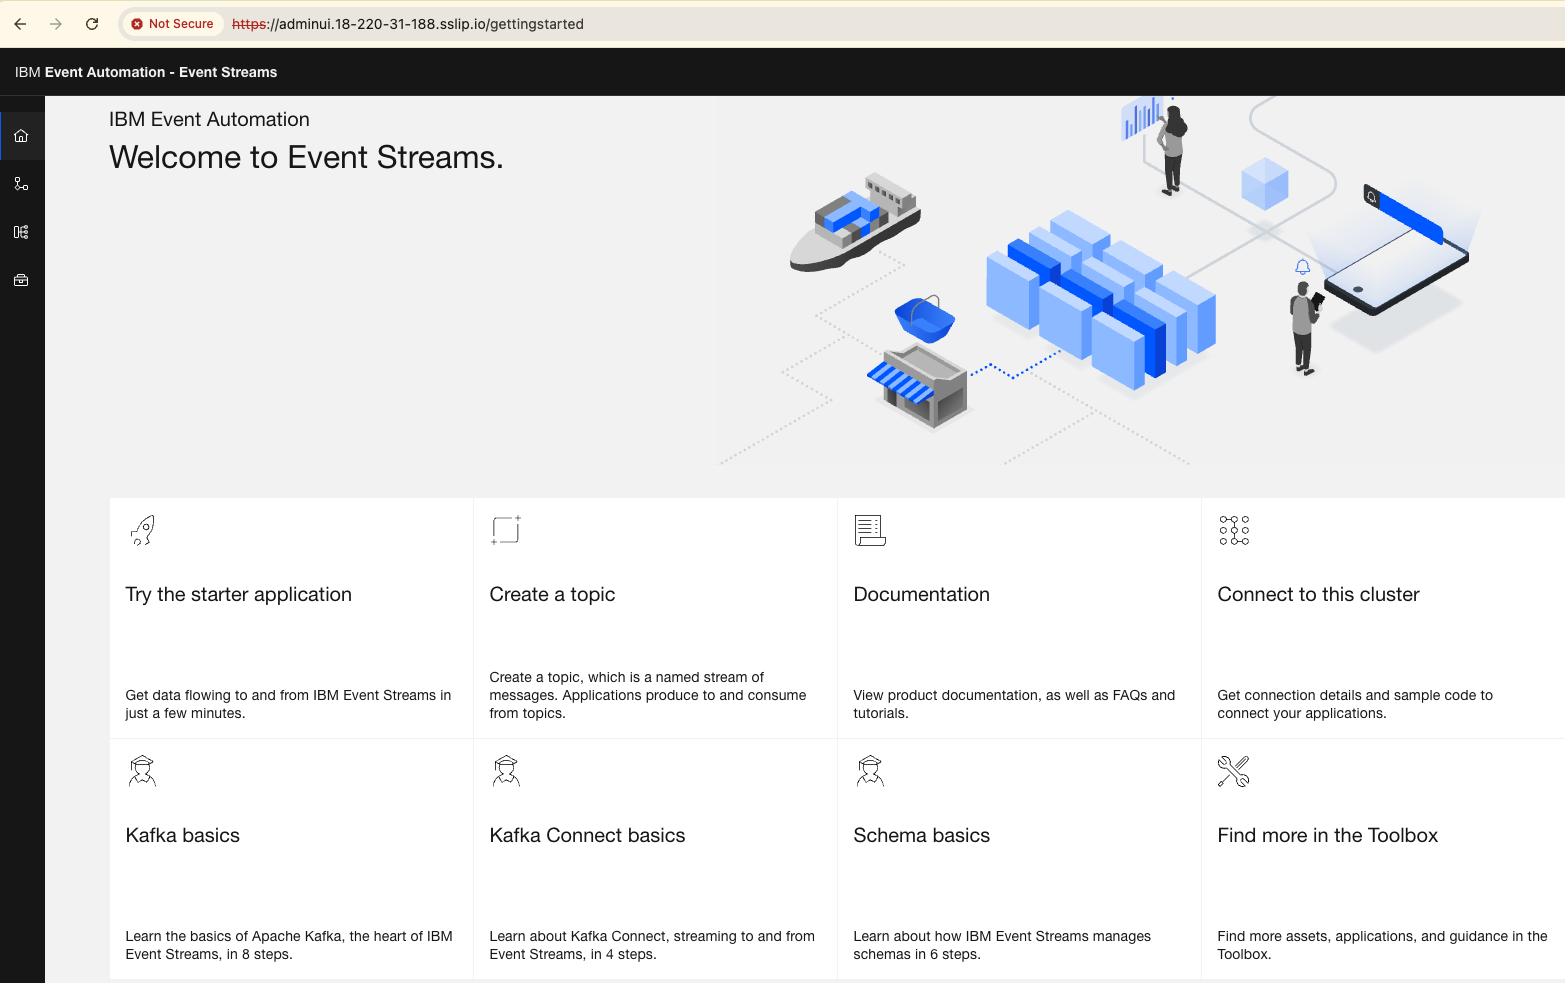
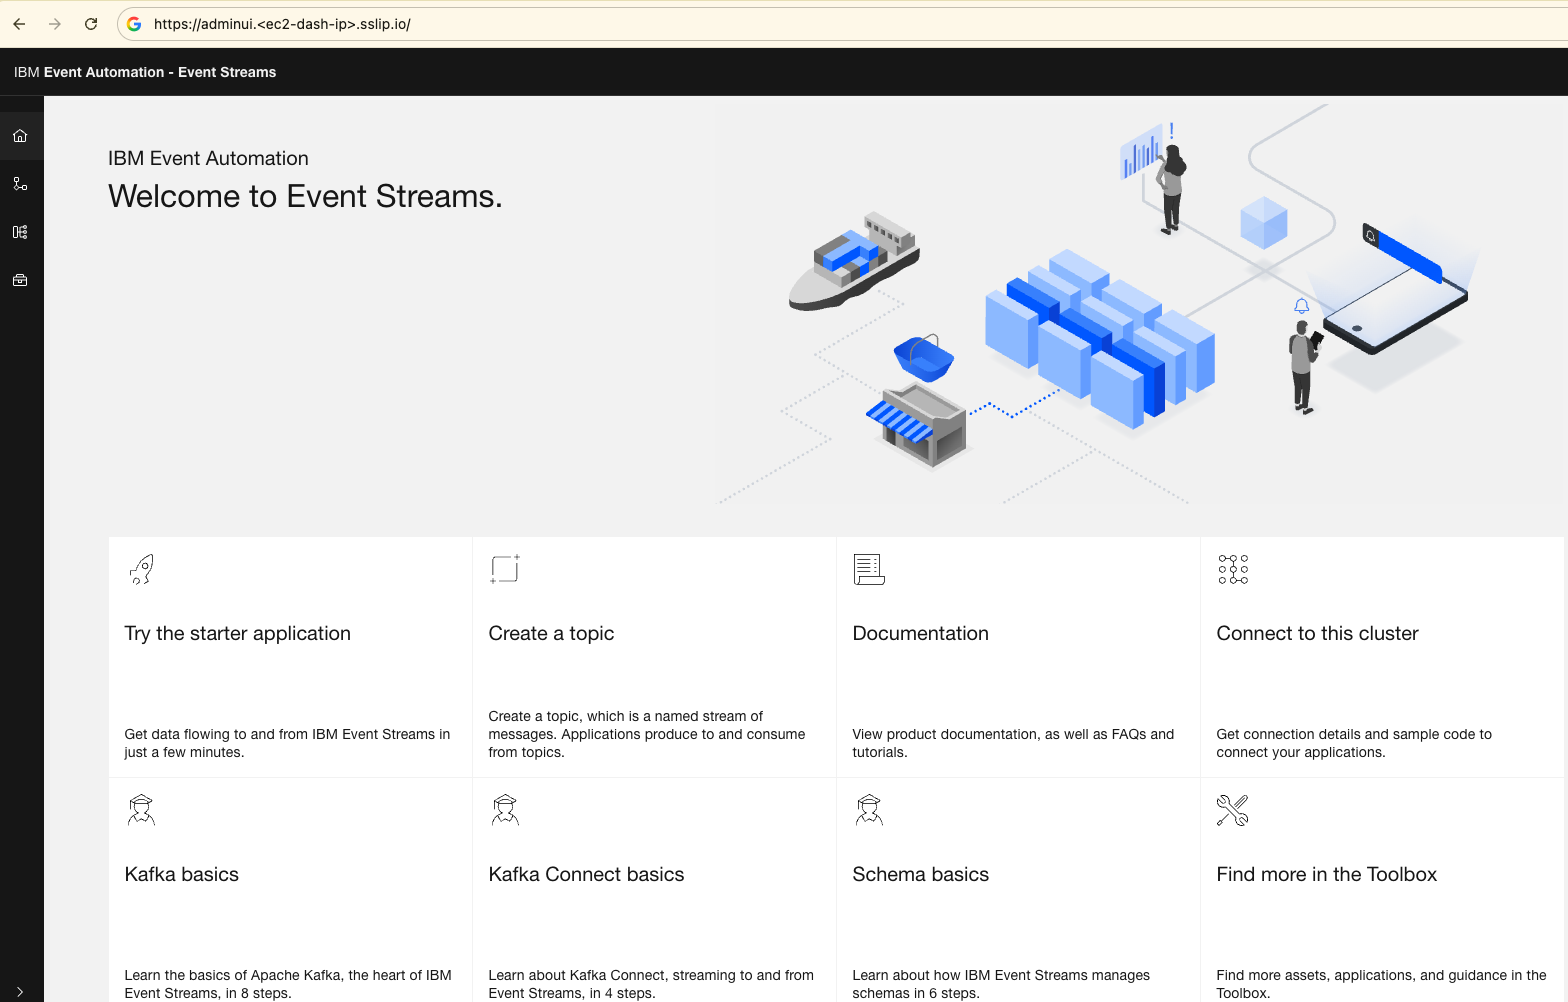
ibm eventstreams deployment on k8s

diff --git a/eventstreams/README.md b/eventstreams/README.md
@@ -217,7 +217,7 @@ Because this deployment runs on kind inside a remote EC2 instance, you must:
 2. Configure **host ports** so EC2 can route HTTP/HTTPS traffic into the Docker containers.
 3. Pin the ingress controller to the **control-plane** node.
 
-Replace `<EC2_PUBLIC_IP>` with your instance's public IP (e.g. `18.220.31.188`).
+Replace `<EC2_PUBLIC_IP>` with your instance's public IP (e.g. `99.999.99.999`).
 
 ```bash
 helm repo add ingress-nginx https://kubernetes.github.io/ingress-nginx
@@ -301,7 +301,7 @@ Edit `minimal-prod.yaml` before applying:
 
 1. Set `spec.license.accept` to `true`.
 2. Replace `<HOSTNAME>` placeholders with sslip.io hostnames based on your EC2 public IP.
-   - Example: for IP `18.220.31.188`, use `adminui.18-220-31-188.sslip.io`.
+   - Example: for IP `99.999.99.999`, use `adminui.<99-999-99-999>.sslip.io`.
 3. Set `class: nginx` for all ingress endpoints.
 4. Set `class: standard` for storage.
 
@@ -315,16 +315,16 @@ sdiff -s minimal-prod.yaml.orig minimal-prod.yaml
 
 ```
     accept: false                                    |      accept: true
-        host: <HOSTNAME>                             |          host: adminapi.18-220-31-188.sslip.io
+        host: <HOSTNAME>                             |          host: adminapi.<ip-with-dashes>.sslip.io
         class: <INGRESS-CLASS>                       |          class: nginx
-        host: <HOSTNAME>                             |          host: adminui.18-220-31-188.sslip.io
+        host: <HOSTNAME>                             |          host: adminui.<ip-with-dashes>.sslip.io
         class: <INGRESS-CLASS>                       |          class: nginx
-        host: <HOSTNAME>                             |          host: apicurio.18-220-31-188.sslip.io
+        host: <HOSTNAME>                             |          host: apicurio.<ip-with-dashes>.sslip.io
         class: <INGRESS-CLASS>                       |          class: nginx
-        host: <HOSTNAME>                             |          host: rest.18-220-31-188.sslip.io
+        host: <HOSTNAME>                             |          host: rest.<ip-with-dashes>.sslip.io
         class: <INGRESS-CLASS>				               |          class: nginx
-              host: <HOSTNAME>                       |                host: kafka.18-220-31-188.sslip.io
-            hostTemplate: broker-{nodeId}.<HOSTNAME> |              hostTemplate: broker-{nodeId}.18-220-31-188.sslip.io
+              host: <HOSTNAME>                       |                host: kafka.<ip-with-dashes>.sslip.io
+            hostTemplate: broker-{nodeId}.<HOSTNAME> |              hostTemplate: broker-{nodeId}.<ip-with-dashes>.sslip.io
             class: <INGRESS-CLASS>                   |              class: nginx
           class: ''                                  |            class: standard
           class: ''                                  |            class: standard
@@ -407,14 +407,14 @@ eventstreams.eventstreams.ibm.com/minimal-prod   Ready
 kubectl get ingress -n my-eventstreams
 
 NAME                                 CLASS   HOSTS                             ADDRESS         PORTS     AGE
-minimal-prod-ibm-es-ac-reg-ingress   nginx   apicurio.18-220-31-188.sslip.io   18.220.31.188   80, 443   4m36s
-minimal-prod-ibm-es-admapi-ingress   nginx   adminapi.18-220-31-188.sslip.io   18.220.31.188   80, 443   4m35s
-minimal-prod-ibm-es-recapi-ingress   nginx   rest.18-220-31-188.sslip.io       18.220.31.188   80, 443   4m35s
-minimal-prod-ibm-es-ui-ingress       nginx   adminui.18-220-31-188.sslip.io    18.220.31.188   80, 443   4m34s
-minimal-prod-kafka-3                 nginx   broker-3.18-220-31-188.sslip.io   18.220.31.188   80, 443   7m58s
-minimal-prod-kafka-4                 nginx   broker-4.18-220-31-188.sslip.io   18.220.31.188   80, 443   7m58s
-minimal-prod-kafka-5                 nginx   broker-5.18-220-31-188.sslip.io   18.220.31.188   80, 443   7m58s
-minimal-prod-kafka-bootstrap         nginx   kafka.18-220-31-188.sslip.io      18.220.31.188   80, 443   7m58s
+minimal-prod-ibm-es-ac-reg-ingress   nginx   apicurio.<ip-with-dashes>.sslip.io   99.999.99.999   80, 443   4m36s
+minimal-prod-ibm-es-admapi-ingress   nginx   adminapi.<ip-with-dashes>.sslip.io   99.999.99.999   80, 443   4m35s
+minimal-prod-ibm-es-recapi-ingress   nginx   rest.<ip-with-dashes>.sslip.io       99.999.99.999   80, 443   4m35s
+minimal-prod-ibm-es-ui-ingress       nginx   adminui.<ip-with-dashes>.sslip.io    99.999.99.999   80, 443   4m34s
+minimal-prod-kafka-3                 nginx   broker-3.<ip-with-dashes>.sslip.io   99.999.99.999   80, 443   7m58s
+minimal-prod-kafka-4                 nginx   broker-4.<ip-with-dashes>.sslip.io   99.999.99.999   80, 443   7m58s
+minimal-prod-kafka-5                 nginx   broker-5.<ip-with-dashes>.sslip.io   99.999.99.999   80, 443   7m58s
+minimal-prod-kafka-bootstrap         nginx   kafka.<ip-with-dashes>.sslip.io      99.999.99.999   80, 443   7m58s
 ```
 
 ---
@@ -425,14 +425,14 @@ On your **local machine** (not the EC2 host), add entries so sslip.io hostnames 
 
 ```bash
 # /etc/hosts — Event Streams on EC2
-<EC2_PUBLIC_IP> apicurio.18-220-31-188.sslip.io
-<EC2_PUBLIC_IP> adminapi.18-220-31-188.sslip.io
-<EC2_PUBLIC_IP> adminui.18-220-31-188.sslip.io
-<EC2_PUBLIC_IP> rest.18-220-31-188.sslip.io
-<EC2_PUBLIC_IP> broker-3.18-220-31-188.sslip.io
-<EC2_PUBLIC_IP> broker-4.18-220-31-188.sslip.io
-<EC2_PUBLIC_IP> broker-5.18-220-31-188.sslip.io
-<EC2_PUBLIC_IP> kafka.18-220-31-188.sslip.io
+<EC2_PUBLIC_IP> apicurio.<ip-with-dashes>.sslip.io
+<EC2_PUBLIC_IP> adminapi.<ip-with-dashes>.sslip.io
+<EC2_PUBLIC_IP> adminui.<ip-with-dashes>.sslip.io
+<EC2_PUBLIC_IP> rest.<ip-with-dashes>.sslip.io
+<EC2_PUBLIC_IP> broker-3.<ip-with-dashes>.sslip.io
+<EC2_PUBLIC_IP> broker-4.<ip-with-dashes>.sslip.io
+<EC2_PUBLIC_IP> broker-5.<ip-with-dashes>.sslip.io
+<EC2_PUBLIC_IP> kafka.<ip-with-dashes>.sslip.io
 ```
 
 > **Note:** sslip.io automatically resolves `*.<ip-with-dashes>.sslip.io` to the dotted IP, but adding `/etc/hosts` entries ensures reliable resolution from your workstation.
@@ -478,7 +478,7 @@ kubectl get secret admin -n my-eventstreams \
 Open in your browser:
 
 ```
-https://adminui.18-220-31-188.sslip.io/
+https://adminui.<ip-with-dashes>.sslip.io/
 ```
 
 Log in with:
@@ -540,15 +540,15 @@ kubectl es init -n my-eventstreams \
   --auth-type scram-sha-512 \
   --username admin \
   --password <ADMIN_PASSWORD> \
-  --schema-reg-url https://apicurio.18-220-31-188.sslip.io
+  --schema-reg-url https://apicurio.<ip-with-dashes>.sslip.io
 
 Namespace:                         my-eventstreams
 Name:                              minimal-prod
-Event Streams API endpoint:        https://adminapi.18-220-31-188.sslip.io
+Event Streams API endpoint:        https://adminapi.<ip-with-dashes>.sslip.io
 Event Streams API status:          OK
-Event Streams UI address:          https://adminui.18-220-31-188.sslip.io
-Apicurio Registry endpoint:        https://apicurio.18-220-31-188.sslip.io
-Event Streams bootstrap address:   kafka.18-220-31-188.sslip.io:443
+Event Streams UI address:          https://adminui.<ip-with-dashes>.sslip.io
+Apicurio Registry endpoint:        https://apicurio.<ip-with-dashes>.sslip.io
+Event Streams bootstrap address:   kafka.<ip-with-dashes>.sslip.io:443
 OK
 ```
 